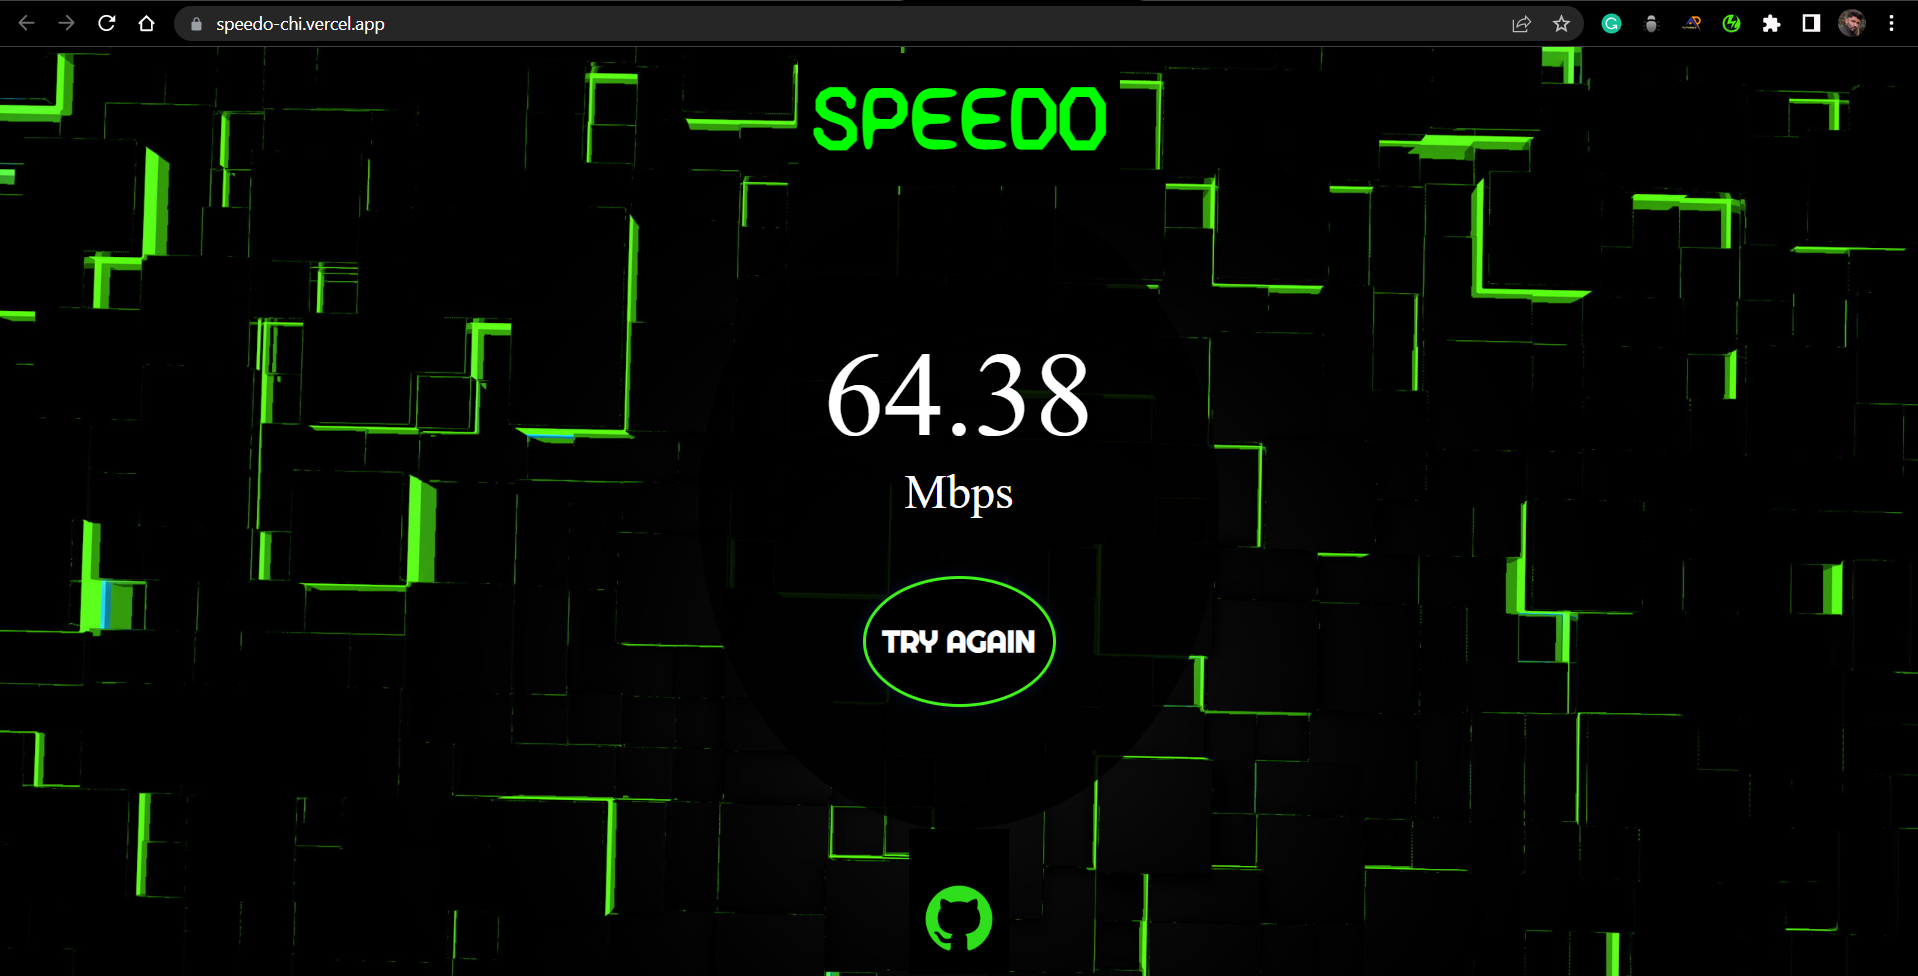
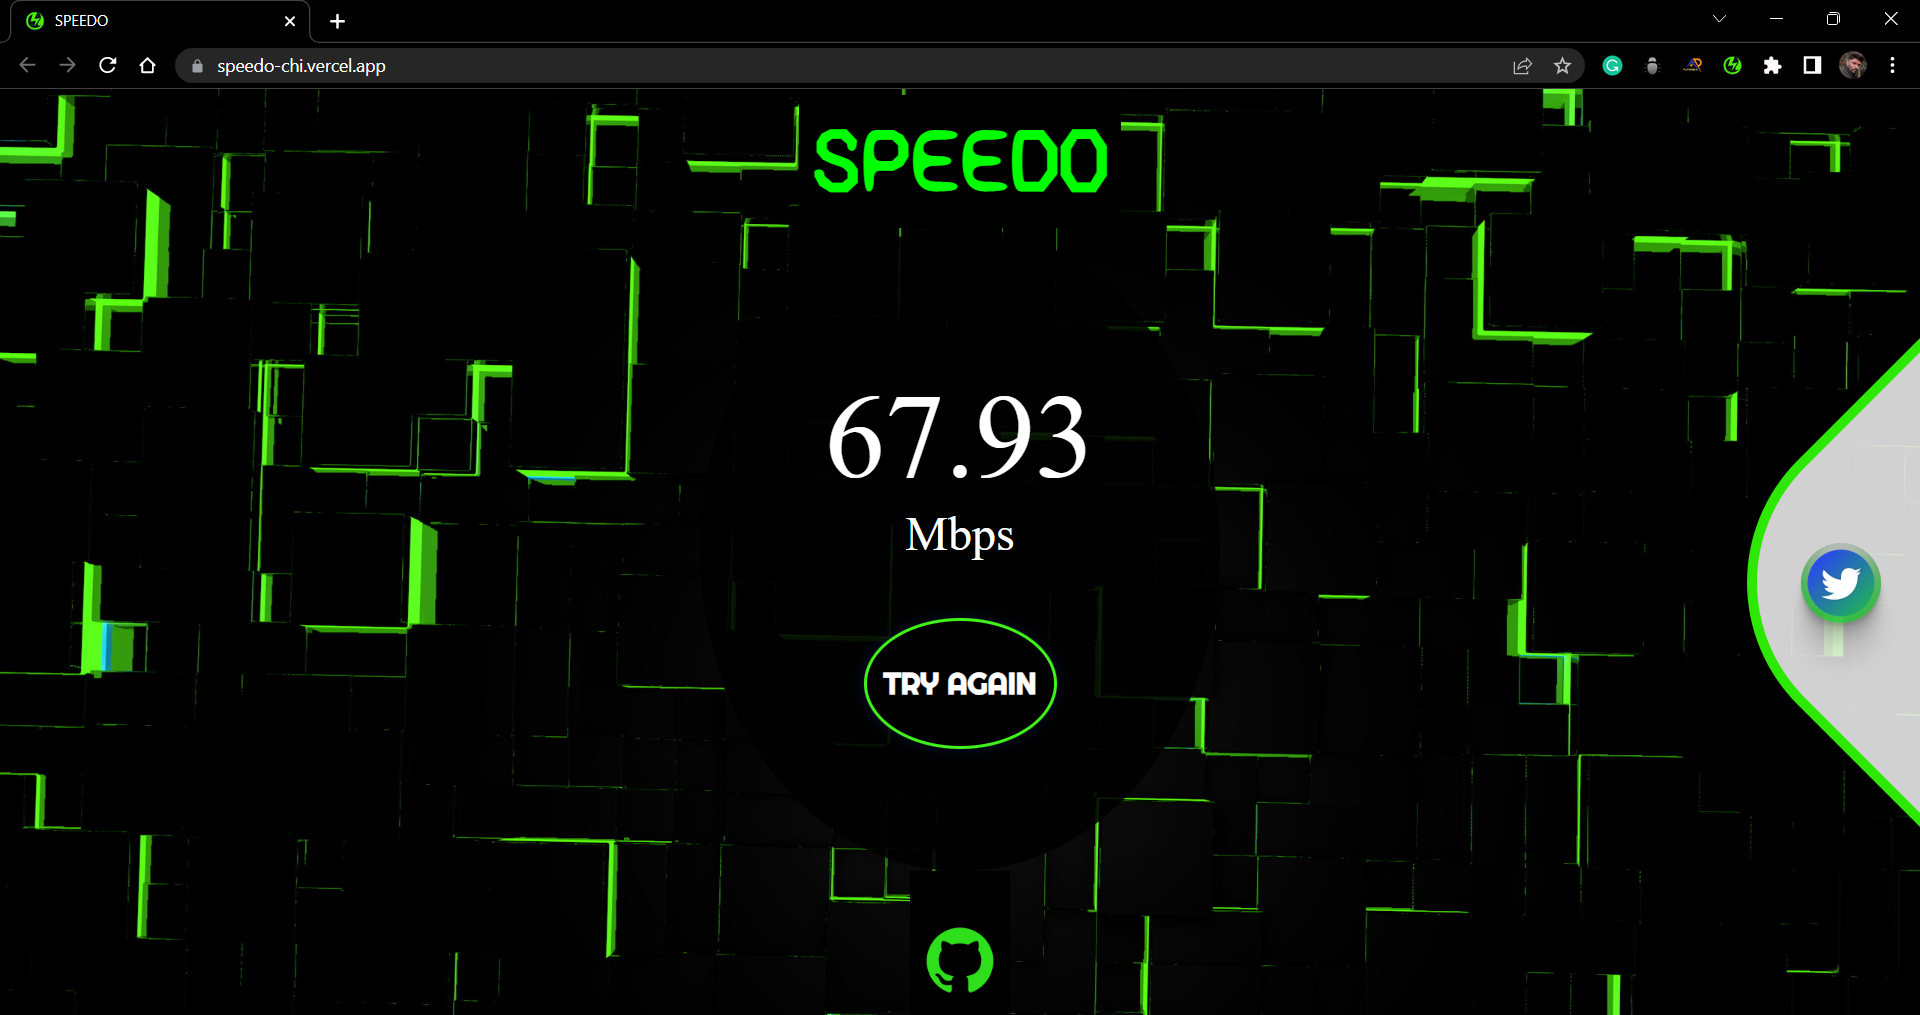
Updated README

diff --git a/README.md b/README.md
@@ -10,6 +10,12 @@ SPEEDO is a web application that, in certain instances, analyses your internet c
 <p align="center" >
        <img src="./images/ss2.png"/ width ="900">
 </p>
+### Referring to the previous image, clicking the Twitter share button creates a Twitter frame where you may post your stats.
+
+<p align="center" >
+       <img src="./images/tweet.png"/ width ="500">
+</p>
+
 
 ## Likewise, you may explore this website's Chrome Extension by clicking the link below.👇
 
